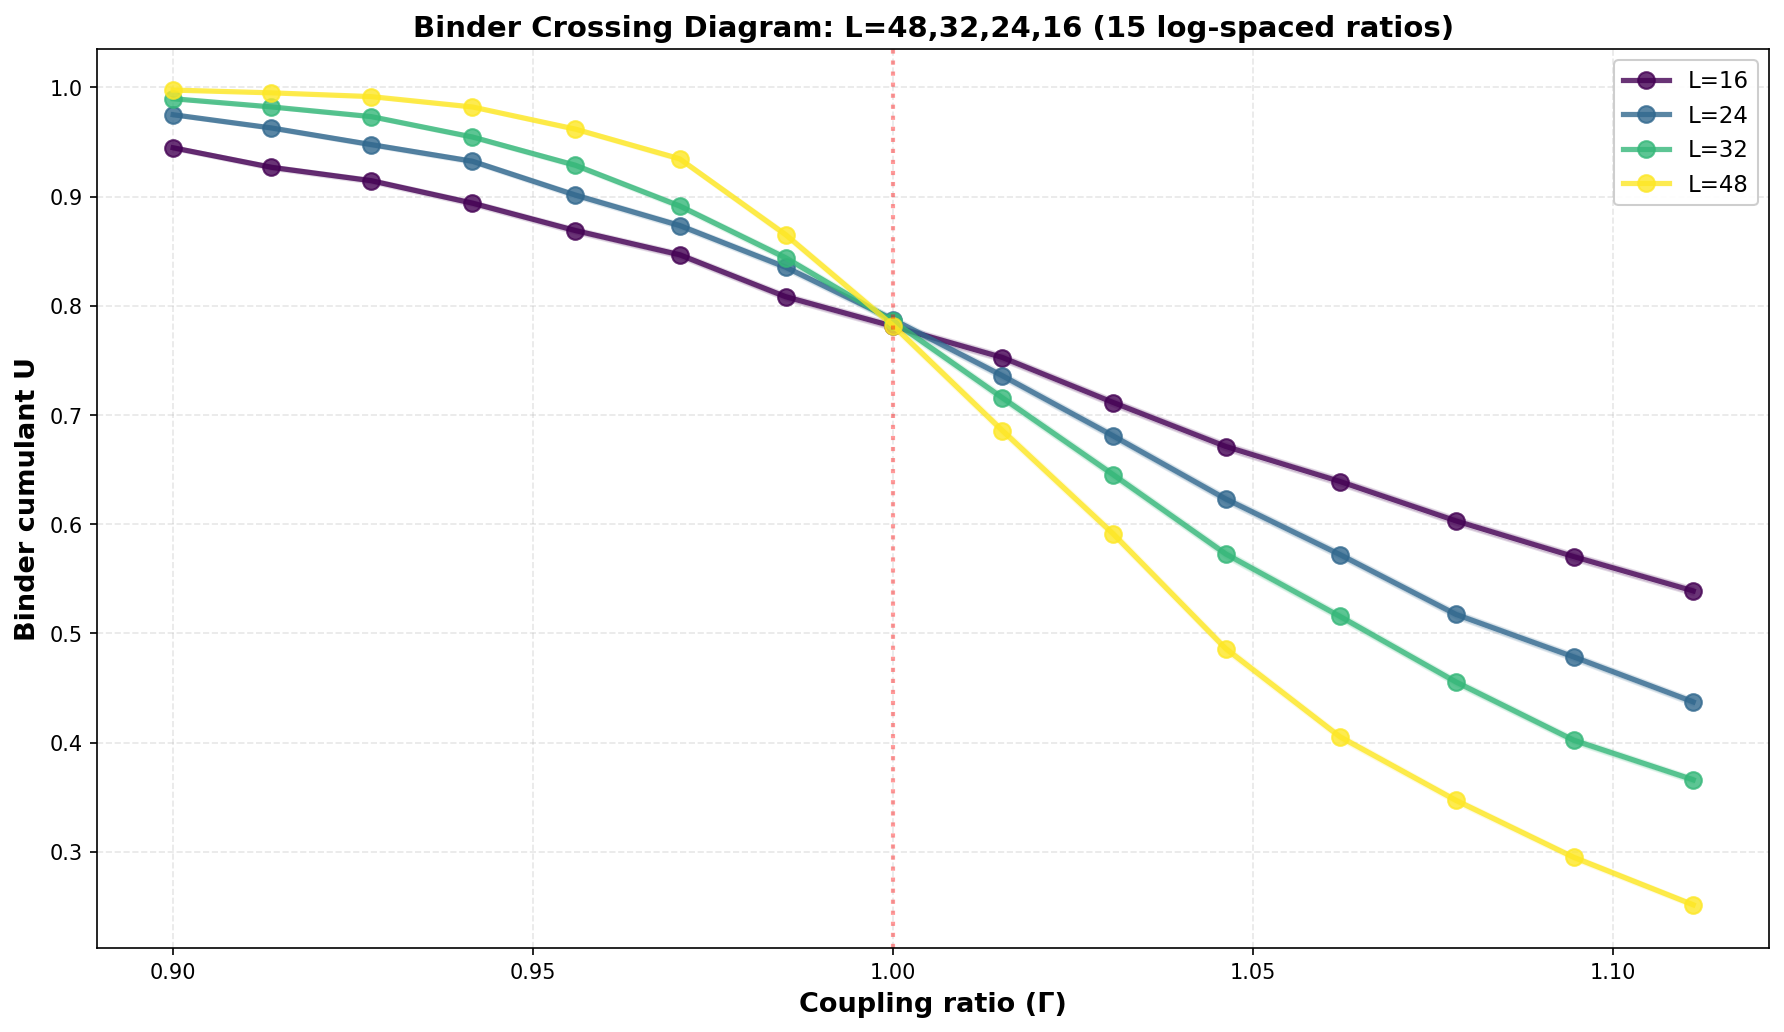
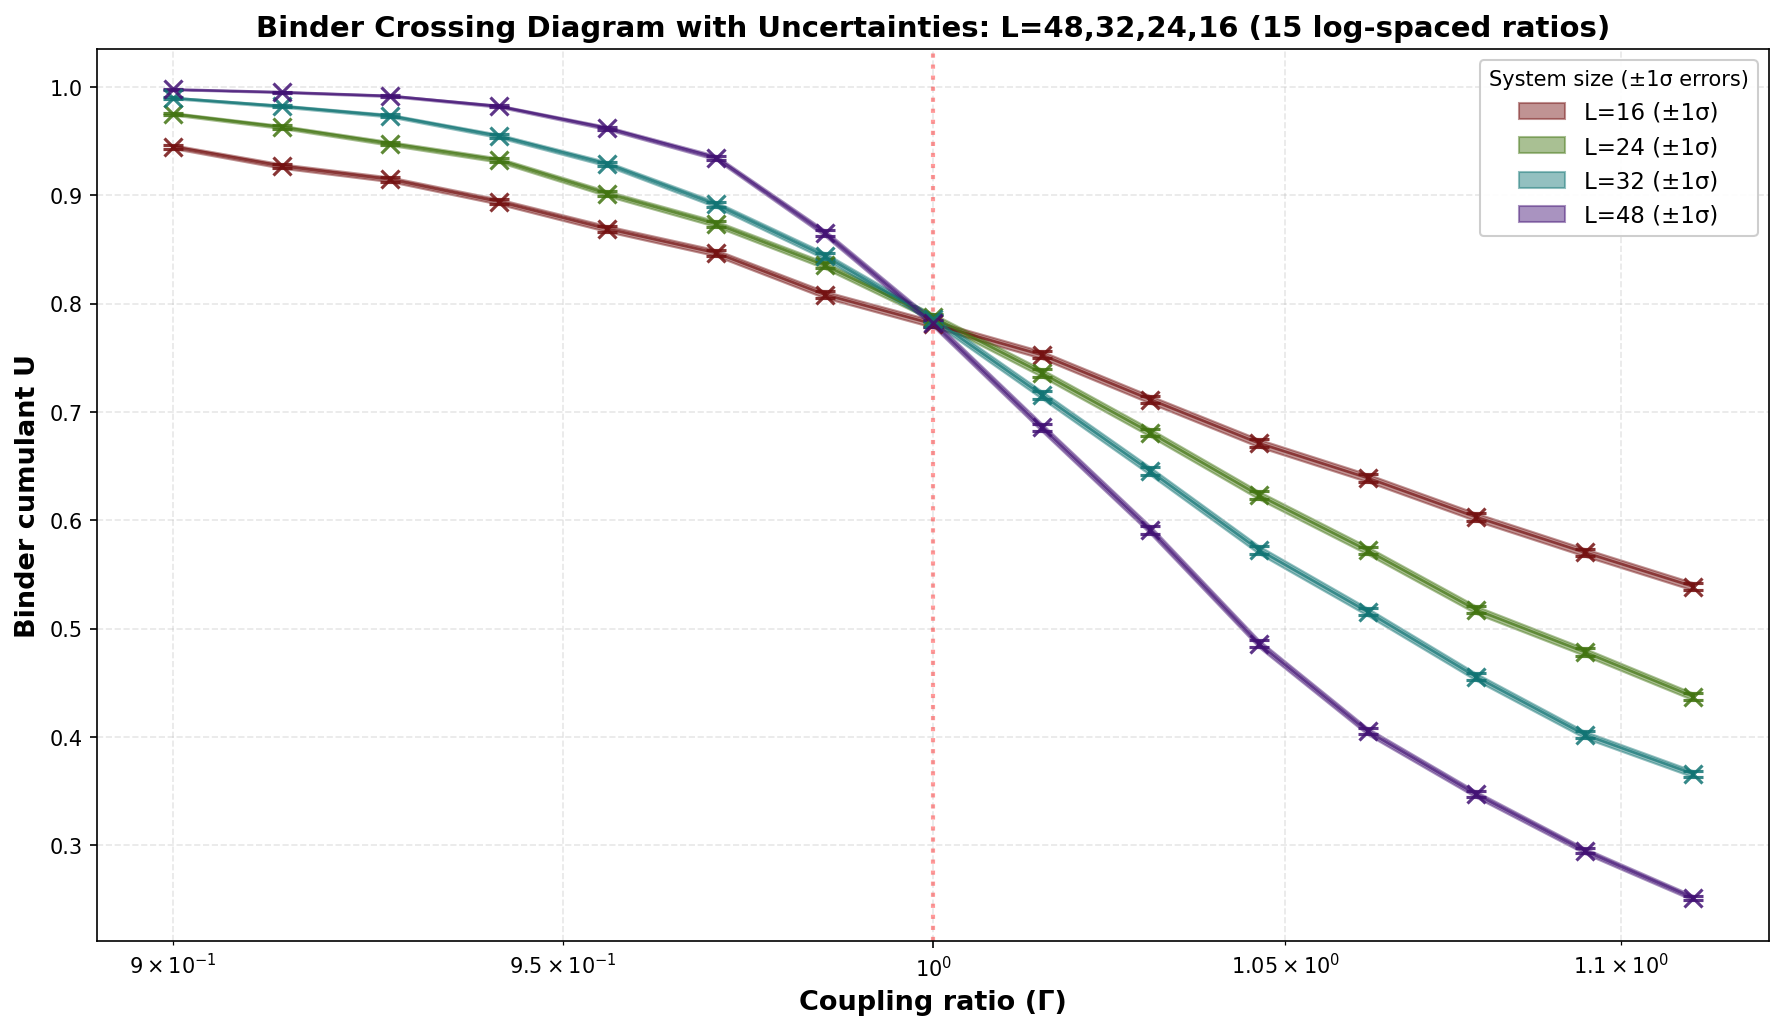
Refine Binder crossing visualization styling
- Use x-log / y-linear scaling
- Improve uncertainty rendering with ribbons and error bars
- Switch to thin cross markers and thinner lines
- Apply equal-lightness palette and reduce brightness
- Regenerate final plot and summary outputs

diff --git a/analyze_timeseries.py b/analyze_timeseries.py
@@ -10,6 +10,7 @@ matplotlib.use('Agg')
 import matplotlib.pyplot as plt
 from collections import defaultdict
 import sys
+import colorsys
 
 csv.field_size_limit(sys.maxsize)
 
@@ -126,7 +127,8 @@ for row in summary:
 
 # Plot
 fig, ax = plt.subplots(figsize=(12, 7))
-colors = plt.cm.viridis(np.linspace(0, 1, len(by_L)))
+hues = np.linspace(0.0, 1.0, len(by_L), endpoint=False)
+colors = [colorsys.hls_to_rgb(h, 0.26, 0.75) for h in hues]
 
 for idx, L in enumerate(sorted(by_L.keys())):
     data = sorted(by_L[L], key=lambda x: x[0])
@@ -136,16 +138,26 @@ for idx, L in enumerate(sorted(by_L.keys())):
     ratios, Us, ses = zip(*data)
     ratios, Us, ses = np.array(ratios), np.array(Us), np.array(ses)
     
-    ax.plot(ratios, Us, 'o-', linewidth=2.5, markersize=8,
-            label=f'L={L}', color=colors[idx], alpha=0.8)
-    ax.fill_between(ratios, Us - ses, Us + ses, alpha=0.15, color=colors[idx])
+    # Add uncertainty ribbons FIRST (so they appear behind)
+    ax.fill_between(ratios, Us - ses, Us + ses, alpha=0.45, color=colors[idx], 
+                    label=f'L={L} (±1σ)')
+    
+    # Add error bars at each point with thin cross markers
+    ax.errorbar(ratios, Us, yerr=ses, fmt='x', color=colors[idx], 
+                elinewidth=2, capsize=5, markersize=9, markeredgewidth=1.5,
+                alpha=0.85, capthick=2)
+    
+    # Then plot thin line on top connecting points
+    ax.plot(ratios, Us, '-', linewidth=1.3, color=colors[idx], alpha=0.7)
 
 ax.set_xlabel('Coupling ratio (Γ)', fontsize=13, fontweight='bold')
 ax.set_ylabel('Binder cumulant U', fontsize=13, fontweight='bold')
-ax.set_title('Binder Crossing Diagram: L=48,32,24,16 (15 log-spaced ratios)', fontsize=14, fontweight='bold')
-ax.legend(fontsize=11, loc='best', framealpha=0.95)
-ax.grid(True, alpha=0.3, linestyle='--')
-ax.axvline(x=1.0, color='red', linestyle=':', linewidth=2, alpha=0.4, label='γ=1.0')
+ax.set_title('Binder Crossing Diagram with Uncertainties: L=48,32,24,16 (15 log-spaced ratios)', 
+             fontsize=14, fontweight='bold')
+ax.legend(fontsize=11, loc='best', framealpha=0.95, title='System size (±1σ errors)')
+ax.set_xscale('log')
+ax.grid(True, alpha=0.3, linestyle='--', which='both')
+ax.axvline(x=1.0, color='red', linestyle=':', linewidth=2, alpha=0.4)
 
 plt.tight_layout()
 plot_file = bench / 'binder_crossing_final.png'
